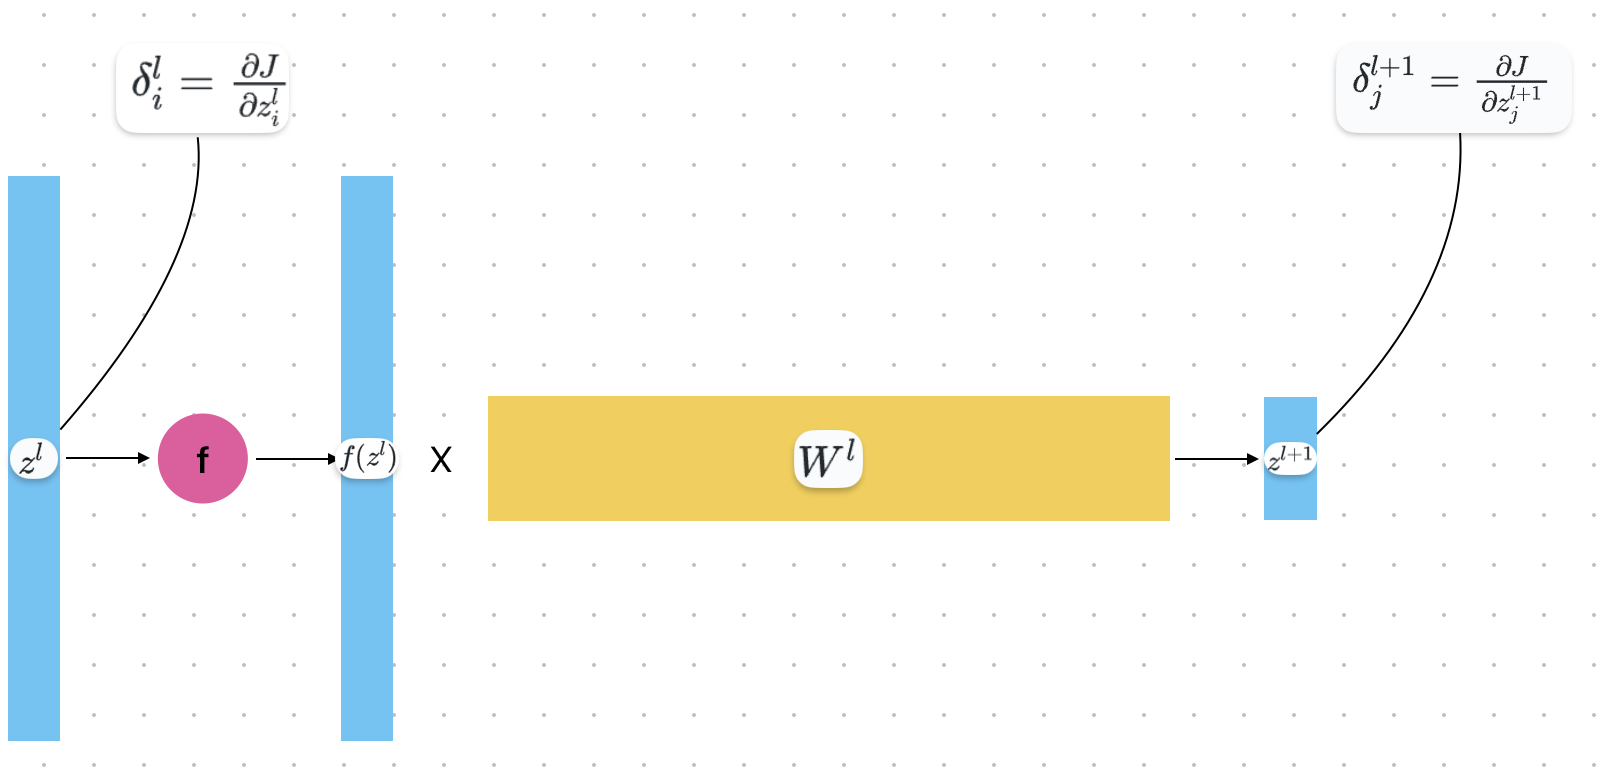
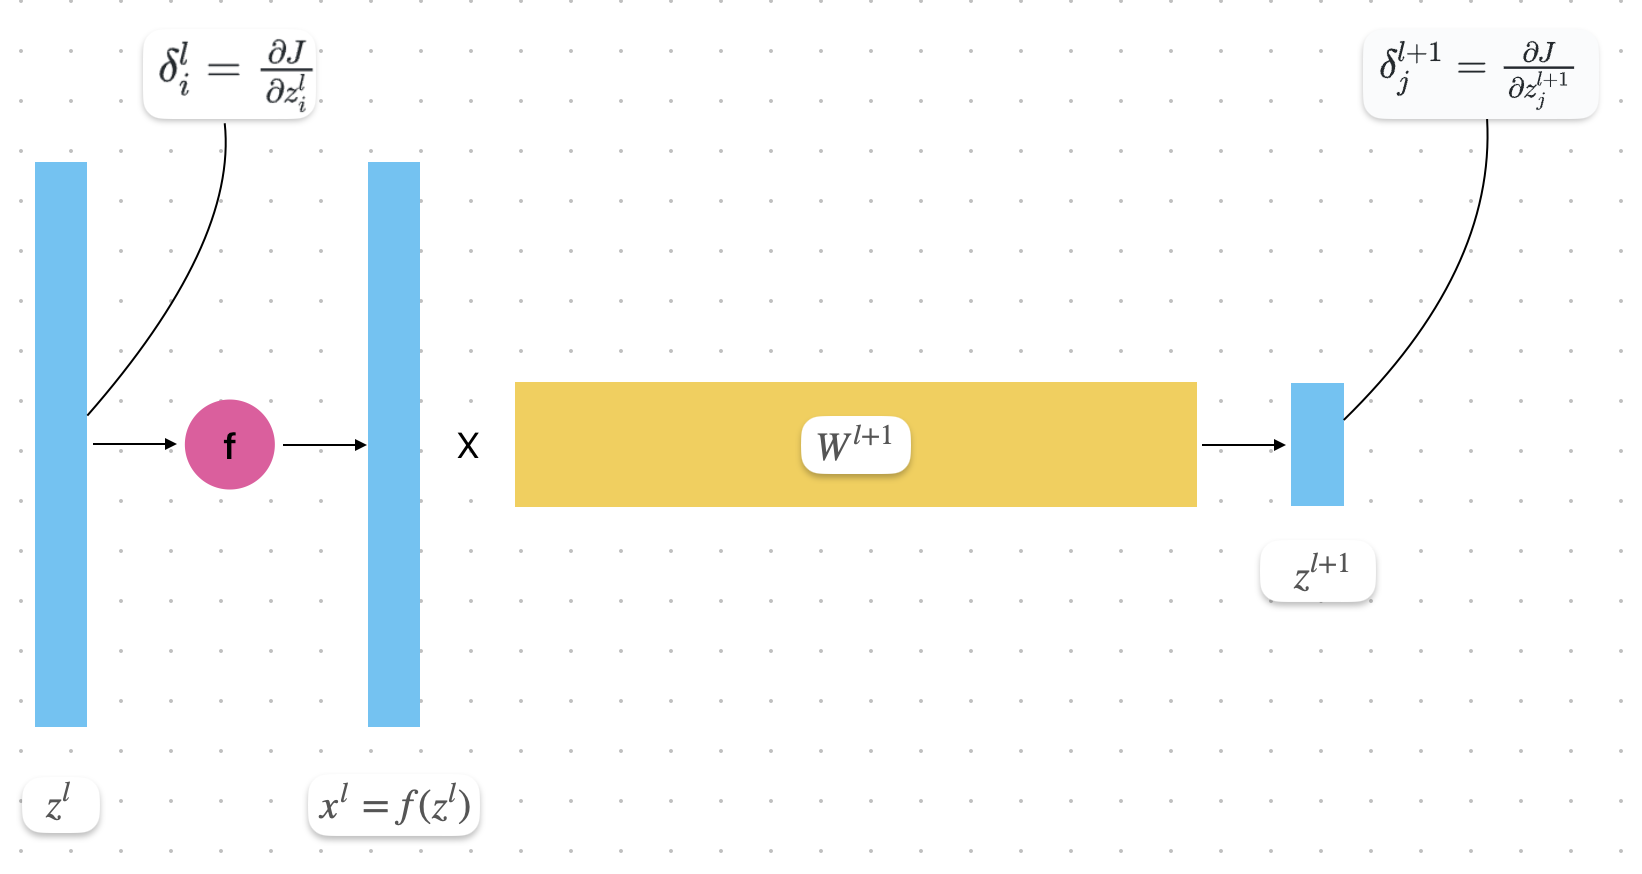
fix gradient checkpoint

diff --git a/_posts/2023-05-19-Gradient Checkpoint.md b/_posts/2023-05-19-Gradient Checkpoint.md
@@ -25,24 +25,39 @@ excerpt_separator: <!--more-->
 首先回顾下BP过程中需要用到哪些数据。
 
 ![BP](/_posts/BP.png)
+<p style="color:gray;text-align: center"> 图1 BP过程。 $z^l$为第$l$层的隐藏变量， $f()$为激活函数，$x^{l} = f(z^l)$为本层的输出，下一层的输入。</p>
 
-BP的核心公式：$\delta_i^l=(\sum W^l_{ij}\delta_j^{l+1})*f'(z_i^l)$。
+<!-- $$
+x^l = f(z^l) \\
+z^{l+1} \\
+W^{l+1}
+$$ -->
 
-它展示了在两个相邻层之间 $\delta_i^l$和$\delta_i^{l+1}$ 是怎么向后传播的，有了它就知道$z_i^l$怎样更新了。
+在BP中比较核心的概念是“残差”$\delta$。
+对应的残差传播的核心公式：
+
+$$
+\delta_i^l=  \frac{\partial{J}}{\partial{z_i^l}} = (\sum W^{l+1}_{ij}\delta_j^{l+1})*f'(z_i^l)
+$$
+
+它展示了在两个相邻层之间 $\delta_i^l$和$\delta_i^{l+1}$ 是怎么向后传播的，有了它就知道$W$怎样更新了：
+
+$$
+\frac{\partial J}{\partial W^{l+1}} = \delta^{l+1} (x^l)^T
+$$
 
 
-其中 $z_i^l$为第$l$层第$i$个激活函数后的输出，也是第$l+1$层的输入。
 
-误差传输的主体可以盯着这个：$\delta_i^l = \frac{\partial{J}}{\partial{z_i^l}}$。
 
-可以看到如果不考虑任何优化，对于每次feed forward，这个计算过程中需要记录：
 
-- $z^l$  ：每一层都需要记录
+可以看到如果不考虑任何优化，对于每次feed forward，这个计算过程中需要计算和记录：
+
+- $z^l$  ：每一层都需要记录，以做传播
 - $\delta_i^l$ ：保留当前层，每层计算完后可以抛弃
+- $f'(z^l)$可以基于$z^l$ 计算得到，不需要额外的存储负担
+- $x^l$同理，每次计算后可以丢弃
 
-$f'(z_i^l)$可以基于$z_i^l$ 计算得到。
-
-随着层数增长，要缓存的$z^l$就越来越多，造成内存负担。
+随着层数增长，要缓存的$z^l$就越来越多，造成内存负担。此外，如果使用Adam优化，则需要额外储存$m$和$v$的信息。
 
 <!-- $f(z^l)$
 
